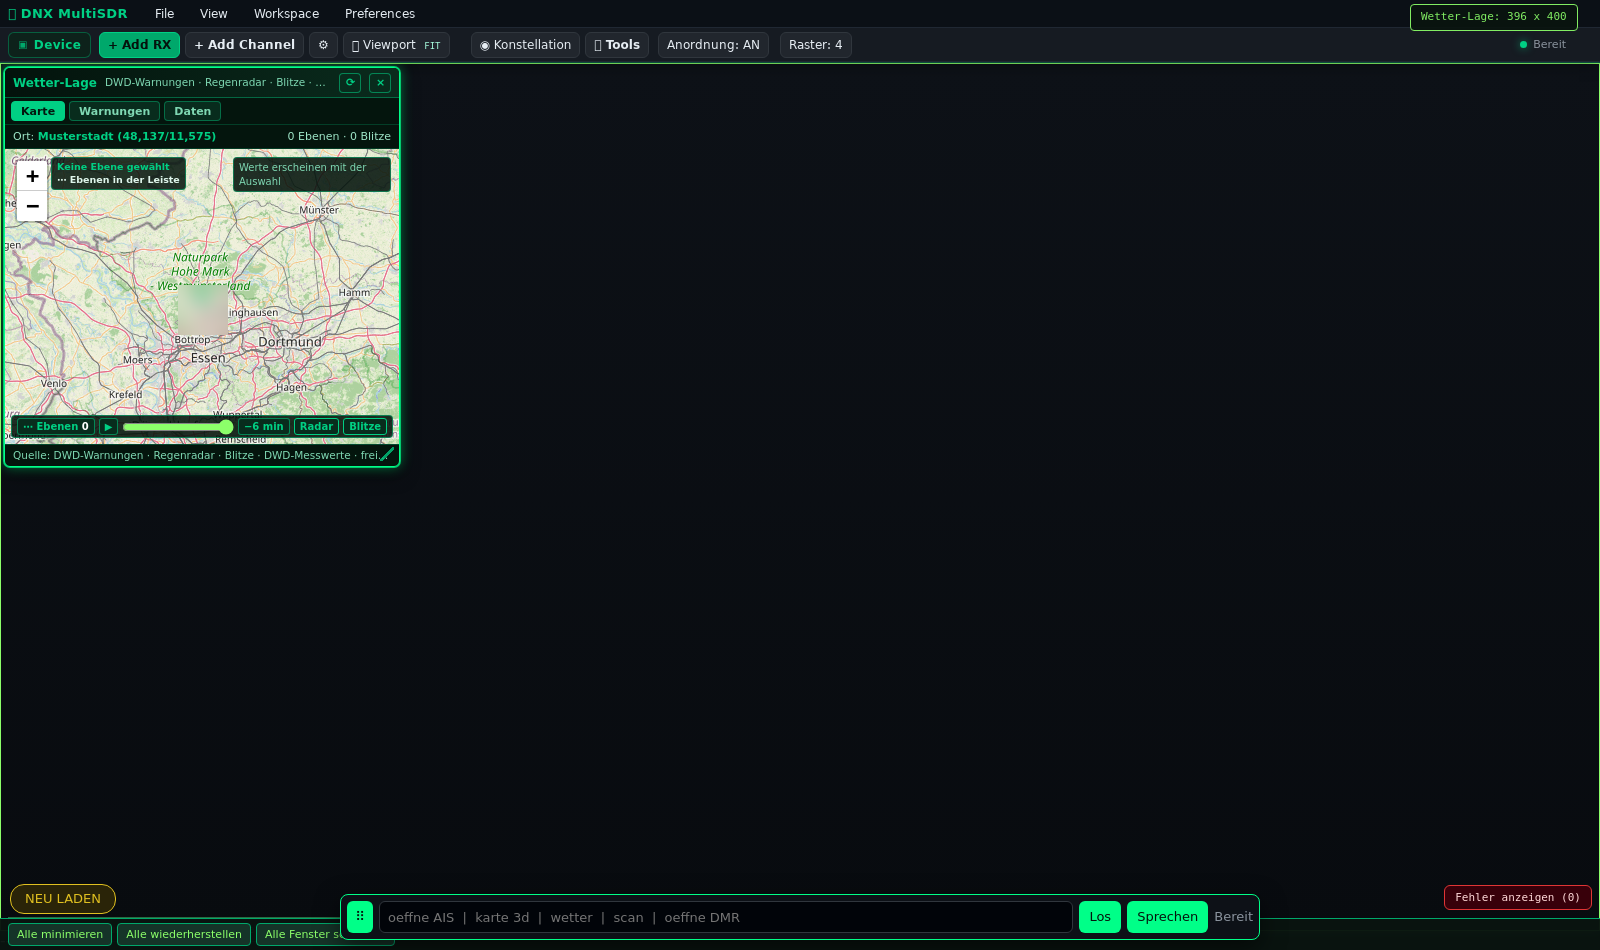
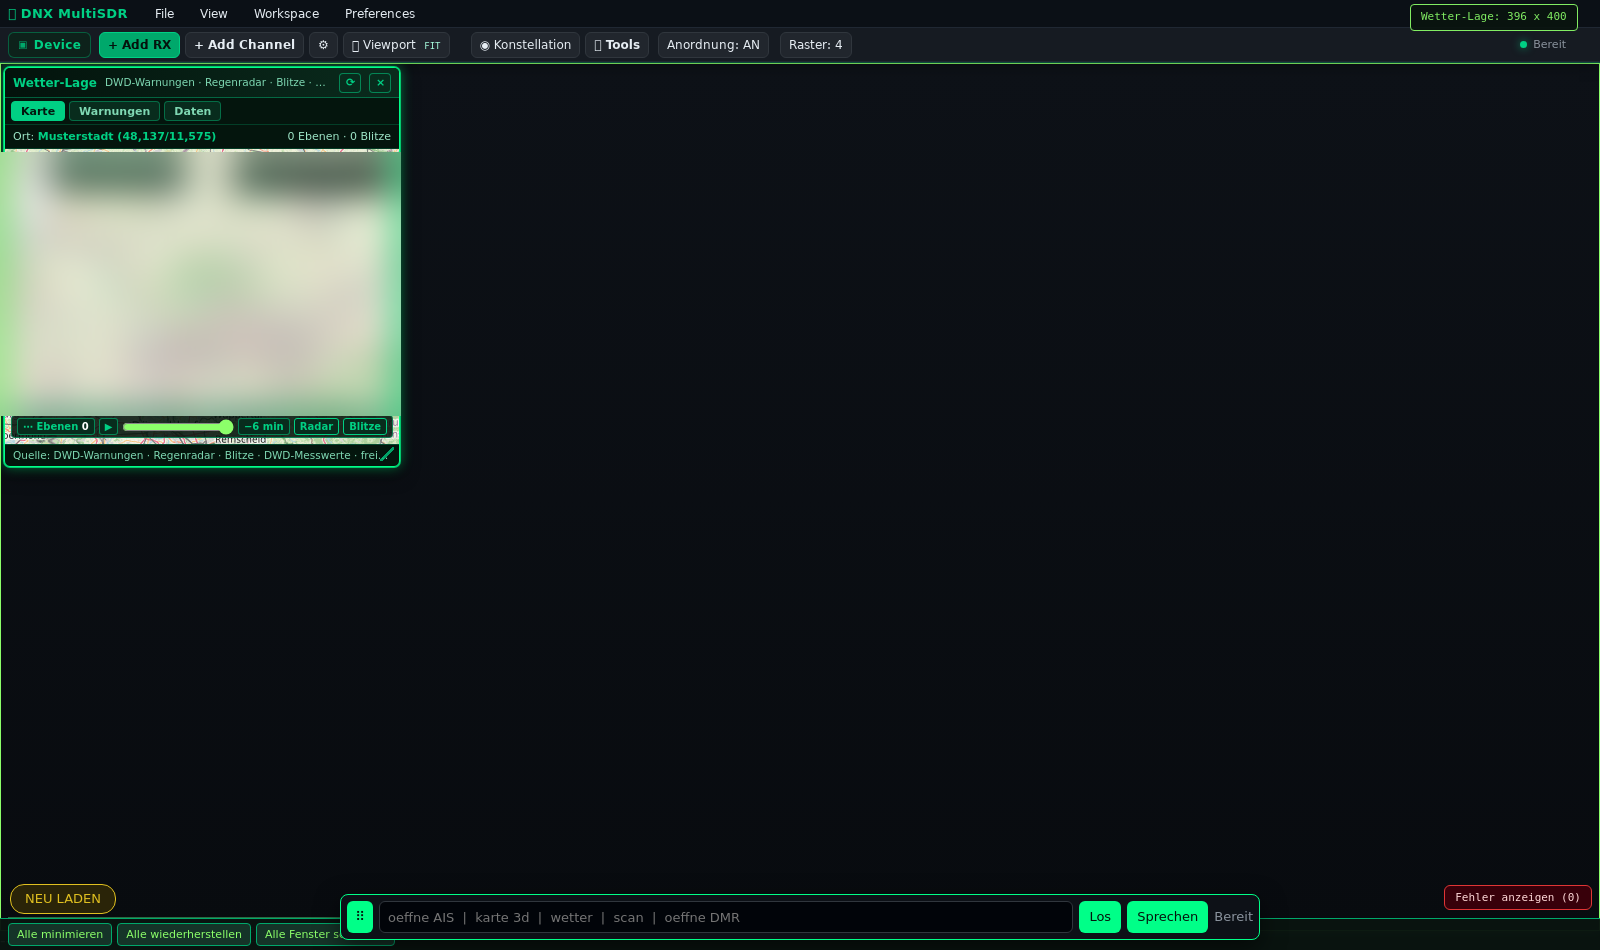
docs: Bedienelemente im Detail (Titelleiste, ≡-Menü, Raster, Device Einstellungen, START) + 24 neue Screens
- neu: docs/bedienung.md — Titelleiste/≡-Fenstermenü, Raster 2–6 mit Beispielen,
  Anordnung AN/AUS, Befehlsleiste (oeffne AIS + Los), Decoder-START (wie/wann/wo),
  Preferences-Menü im Detail, Device Einstellungen (Dec/Fp/RF Gain/Sampling/
  Bias-Tee/Samplerate/IF/Rauschsperre/Bandplan), ⚙ Device Defaults, EQ, Viewport FIT,
  Statuszeile (Alle minimieren / wiederherstellen / schließen) — beobachtetes
  Beta-Verhalten dokumentiert (Minimieren ohne Kacheln, Geräte-Standardwerte wirkungslos)
- Screens 57–80 (anonymisiert, DSP Test Source; Karten geblurrt)
- Wetter-Lage/Karte 2D: Kartenausschnitte geblurrt (Standort)
- menues.md/readme/decoder.md/erste-schritte.md: Querverweise + Korrekturen
  (Device Defaults, FFT Einstellungen)

Changed region(s): [[0.0, 0.1526, 0.25, 0.4579]]

diff --git a/docs/bedienung.md b/docs/bedienung.md
@@ -1,0 +1,320 @@
+# Bedienelemente im Detail — Fenster, Leisten, Dialoge
+
+![Arbeitsbereich mit Raster](screens/62-raster-4.png)
+
+Diese Seite beschreibt die **Bedienelemente abseits der Menüs**: Fenster-Titelleisten,
+das `≡`-Fenstermenü, das Preferences-Menü im Detail, die Geräte-Einstellungen, die
+untere Statuszeile, die Befehlsleiste mit `Los` — und wo genau ein Decoder-RX
+**gestartet** wird. Alle Screenshots zeigen den hardwarefreien **DSP Test Source**-RX
+(synthetisches Signal), Kartenausschnitte sind unscharf gehalten. Kein Knopf wurde
+gedrückt, der einen Live-Empfang oder Dekodierstart auslöst (Details:
+[disclaimer.md](disclaimer.md)).
+
+---
+
+## 1. Titelleiste jedes Fensters
+
+Jedes Fenster (RX, FFT, Decoder, Karten …) trägt oben rechts denselben Satz Knöpfe:
+
+| Element | Funktion |
+|---|---|
+| `⠿` (links im Kopf) | **Ziehen** — Fenster verschieben (bei `Anordnung: AN` später wieder einsortiert) |
+| Grüne Nummer-Plakette (`4`) | RX-Nummer des Fensters (`rx-004` steht rechts daneben) |
+| `LUPE AUS` | Decoder-Kanalmonitor (Lupe) an-/ausschalten |
+| `–` (Minimieren) | Fenster einklappen/minimieren |
+| `□` (Maximieren/Wiederherstellen) | Fenster auf volle Größe / zurück |
+| `≡` (Menü) | **Fenstermenü** (Details: §3) |
+| `✕` (Schließen) | Fenster schließen (nur die Ansicht, der RX bleibt registriert) |
+
+---
+
+## 2. Raster 2–6 und Anordnung AN/AUS
+
+Zwei Toolbar-Schalter steuern, **wo** Fenster landen:
+
+- **`Raster: n`** — Klick zyklisch `4 → 5 → 6 → 2 → 3 → …` (Wrap-Around). Die Zahl gibt
+  die Spaltenzahl des automatischen Fensterrasters an; Fenster sind standardmäßig
+  `396 × 400 px` — `Raster: 2`/`3` macht die Fenster breiter, `5`/`6` schmaler.
+- **`Anordnung: AN`** — der Layout-Packer ordnet Fenster automatisch (und bei jedem
+  neuen Fenster) neu im Raster an.
+- **`Anordnung: AUS`** — der Packer hält sich zurück; Fenster sind frei verschiebbar
+  (`AUS = frei ziehen + Resize`, laut Tooltip). Praktisch: Fenster einmal sinnvoll
+  anordnen und so lassen.
+
+### Raster-Beispiele (jeweils 7 Fenster: RX + FFT + CW-Decoder)
+
+| Raster | Screenshot |
+|---|---|
+| `Raster: 4` | ![Raster 4](screens/62-raster-4.png) |
+| `Raster: 2` | ![Raster 2](screens/63-raster-2.png) |
+| `Raster: 3` | ![Raster 3](screens/64-raster-3.png) |
+| `Raster: 5` | ![Raster 5](screens/65-raster-5.png) |
+| `Raster: 6` | ![Raster 6](screens/66-raster-6.png) |
+
+### Anordnung AUS — Beispiel
+
+![Anordnung AUS](screens/67-anordnung-aus.png)
+
+*Toolbar zeigt `Anordnung: AUS` (grün); der Packer greift nicht mehr ein — Fenster
+behalten ihre freie Position, bis du sie selbst bewegst.*
+
+**`🖥 Viewport FIT`** passt die Ansicht passend zum Fenster-Inhalt an
+(![Viewport FIT](screens/76-viewport-fit.png)). **`⟲ Reset`** setzt die RX-Parameter
+(Gain, AGC, Empfangspegel) auf Standard zurück. `⚙ Device Defaults` öffnet **nicht**
+die Vorgaben, sondern den Auswahldialog *Receiver hinzufügen* (siehe §5/§6) —
+beobachtetes Verhalten der Beta.
+
+---
+
+## 3. Das `≡`-Menü in der Titelleiste
+
+Der `≡`-Knopf in **jedem** Fensterkopf öffnet ein Kontextmenü mit denselben
+Basis-Einträgen (hier am **FFT-Fenster**):
+
+![≡ Menü – FFT-Fenster](screens/73-fenster-menue-fft.png)
+
+**Basis-Einträge (alle Fenster):**
+
+- **Fenstereigenschaften** (Überschrift)
+- `Klangregler 10 Band` — öffnet denselben 10-Band-Equalizer wie Preferences →
+  *Audio-Equalizer aktiver RX* (siehe §4/§8)
+- `Zusammenrollen / aufrollen` — Inhalt ein-/ausklappen
+- `Minimieren` / `Wiederherstellen` — wie die `–`/`□`-Knöpfe
+- `Vollbild / zurück` — Fenster maximieren/zurück
+- `Mittig setzen` — Fenster zentrieren
+- `Größe zurücksetzen 380×400`
+- **Alle Fenster** — `Alle minimieren` / `Alle wiederherstellen` / `Alle Fenster schließen`
+- **Andocken** — `Links` / `Rechts` / `Oben` / `Unten`
+- **Deckkraft** — `100 %` / `75 %` / `50 %` / `Schließen`
+
+Das **RX-Fenster** hat zwei zusätzliche Einträge ganz oben:
+
+![≡ Menü – RX-Fenster](screens/74-fenster-menue-rx.png)
+
+- **`FFT / Spektrum / Wasserfall – RX <n>`** — schaltet das FFT-Fenster dieses RX ein/aus
+- **`Geräte-Einstellungen – RX <n>`** — öffnet die **Device Einstellungen** dieses RX
+  (siehe §5) — das ist der eigentliche Einstellungs-Dialog pro Empfänger
+
+---
+
+## 4. Preferences-Menü im Detail
+
+![Preferences-Menü](screens/57-preferences-menue.png)
+
+| Eintrag | Was passiert (beobachtet, Beta v0.9.0) |
+|---|---|
+| `FFT Einstellungen` | **öffnet/aktualisiert das FFT-Fenster** des aktiven RX — **kein** Einstellungs-Dialog (die FFT-Parameter sitzen im FFT-Fenster selbst, siehe §9). Ohne aktiven RX passiert nichts. |
+| `Geräte-Standardwerte` | Keine sichtbare Wirkung in dieser Beta |
+| `Anzeige-Standardwerte für neue RX` | Keine sichtbare Wirkung in dieser Beta (rote Menüfarbe signalisiert: gefährlich/experimentell) |
+| `Audio-Equalizer aktiver RX` | Öffnet den 10-Band-Equalizer des aktiven RX (siehe §8) |
+| `Über DNX MultiSDR` | Versions-/Komponentenliste |
+
+Der Fuß-Hinweis im Menü: *„DNX-Menü: keine Workspace-Panels unten, alles als kompakte
+Top-Menüs.“*
+
+### FFT-Fenster über `Preferences → FFT Einstellungen` geöffnet
+
+![Preferences öffnet FFT](screens/58-fft-einstellungen.png)
+
+---
+
+## 5. Geräte-Einstellungen (Device Einstellungen) im Detail
+
+**Zugang:** RX-Fenster anklicken → `≡` in der Titelleiste → **`Geräte-Einstellungen – RX <n>`**.
+
+Das Fenster `RX <n> / Device Einstellungen` enthält die hardwarenahe Konfiguration
+**pro RX** (kleine Fensteransicht und maximiert):
+
+![Device Einstellungen (klein)](screens/77-geraete-einstellungen-rx.png)
+![Device Einstellungen (maximiert)](screens/78-geraete-einstellungen-fenster.png)
+
+![Geräte-Einstellungen Mitte](screens/80-geraete-einstellungen-mitte.png)
+![Geräte-Einstellungen unterer Teil](screens/79-geraete-einstellungen-unterer-teil.png)
+
+**Inhalt (von oben nach unten):**
+
+| Abschnitt | Elemente |
+|---|---|
+| **Gerät / Basis** | `Dec` — Decimation Factor `1 / 2 / 4 / 8 / 16 / 32 / 64` (effektiv z. B. `2048 kS/s`); `Fp` — `Cen – Center Frequency` / `Sub – Relative Position` / `Inf – Relative Position of Device Center Frequency` |
+| **RTL-SDR Hardware / Gain · AGC · Tuner** | `RF Gain` (Slider, hier `32,0 dB`); `RTL AGC` (digitale Automatik, kein Wert); `Tuner AGC`; `Offset Tuning` |
+| **Sampling Mode** | `Quadrature sampling`, `Direct sampling (I branch)`, `Direct sampling (Q branch)` |
+| **Bias-Tee 4,5 V** | Schalter für die Bias-Spannung am Tuner-Ausgang |
+| **RF Bandwidth kHz** | `0` = Tuner automatisch |
+| **IQ-Korrektur / Software** | `Auto DC`, `Auto IQ` (beides hier aktiv) |
+| **MW / FM (Direct Sampling Q)** | Direkt-Sampling-Profil für Mittelwelle/UKW |
+| **DAB (Profil)** | DAB+-Profil-Schalter |
+| **LO ppm** | Korrektur der Quarz-Abweichung |
+| **Samplerate** | RTL-SDR-Geräte-IQ-Rate; gültige Bereiche `225,001–300` und `900,001–3200 kS/s` (hier `2,048 MS/s`) |
+| **IF Frequency** | `0 kHz` / `450 kHz` / `1620 kHz` / `2048 kHz` |
+| **Rauschsperre – RX <n>** | *Initial squelch level (dBFS)* (`nicht festgelegt`, `Initialwert entfernen` — beim nächsten RX-Start mit `AUTO AUS` gültig); *AUTO-Abstand zum Rauschen (dB)* — größerer Abstand, AUTO öffnet erst bei stärkerem Signal (bisheriger Standard: `6 dB`) |
+| **Bandplan** | `BANDPLAN AN` + `ITU-Region` — `Region 1` (Europa/Afrika/Naher Osten), `Region 2` (Amerika), `Region 3` (Südasien/Pazifik) |
+
+Die Einstellungen werden **pro RX** lokal gespeichert (interner Schlüssel
+`dnx-devset-rx-<rx>`); FFT-/Spektrum-Parameter sind **nicht** hier, sondern im
+FFT-Fenster.
+
+### `⚙ Device Defaults` (Toolbar) — was es in dieser Beta wirklich tut
+
+![⚙ Device Defaults](screens/61-device-defaults.png)
+
+Der Toolbar-Knopf **`⚙ Device Defaults`** (Titel: *Device-/Anzeige-Defaults für neue
+RX*) öffnet in dieser Beta den Dialog **„Receiver hinzufügen“** — dieselbe Liste wie
+`+ Add RX` (vorhandene RX als „Fenster offen“ markiert, SDR-Geräte als „neu ·
+RX-Nummer wird beim Hinzufügen vergeben · bereit“, dazu `Remote: IP:Port` und `Scan`).
+Echte *Vorgaben* für neue RX (Gain/AGC/Samplerate) erreichst du über
+`≡ → Geräte-Einstellungen – RX <n>`.
+
+Der grüne **`Device`**-Knopf links daneben (Titel *Add RX Device Einstellungen*) ist
+als obsolet markiert und hier nur zur Vollständigkeit dokumentiert.
+
+---
+
+## 6. Add RX im Detail — und wo der EQ steckt
+
+`+ Add RX` öffnet **Receiver hinzufügen**:
+
+![Receiver hinzufügen](screens/60-add-rx-dialog.png)
+
+- **Scan** — angeschlossene SDR-Geräte neu suchen
+- **Liste** — `DSP Test Source` (synthetisch, hardwarefrei), `RTL-SDR Blog V3 (USB)`,
+  `Airspy R2` (*neu*), `Remote: IP:Port`; unter jedem Eintrag steht `RX <n> · Fenster
+  offen/geschlossen` bzw. „RX-Nummer wird beim Hinzufügen vergeben · bereit“
+- Rechts oben die **nächste freie Nummer** (`3 · rx-003`) wie im Kopf des RX-Fensters
+- `Hinzufügen` übernimmt die Auswahl und öffnet das RX-Fenster; `Abbrechen` schließt
+  den Dialog
+
+**Der Equalizer ist nicht Teil dieses Dialogs.** Du erreichst ihn nach dem Hinzufügen auf drei Wegen (alle identisch):
+
+1. Preferences → `Audio-Equalizer aktiver RX`
+2. `≡` in der Titelleiste des RX-Fensters → `Klangregler 10 Band`
+3. Der `🎶`-Knopf direkt in der Titelleiste des RX-Fensters
+
+![Audio-Equalizer](screens/59-audio-equalizer.png)
+
+Das EQ-Fenster (`<n> – LED EQ 10 Band`) zeigt: zehn Bänder `31 Hz … 16 kHz` mit
+Segment-Anzeige, **`EQ AN`**, **`Preamp`** (-12 … +12 dB, `Ziehen = Pegel · Doppelklick =
+Band auf 0`), Presets **`FLACH`**, **`BASS`**, **`MUSIK`**, **`SPRACHE`**, `RESET`,
+LIVE-Latenz (`LIVE 17,0 ms ▼ Regler`) und den Hinweis, dass die Kette beim nächsten
+Audio-Start aktiv wird. „Einstellungen gespeichert“ bestätigt Änderungen.
+
+---
+
+## 7. Die Befehlsleiste — `oeffne AIS` & Co., dann `Los`
+
+![Befehlsleiste mit oeffne AIS](screens/68-befehlsleiste-oeffne-ais.png)
+
+Die Leiste unten mittig ist eine Kommandozeile; der Platzhalter zeigt die Syntax:
+`oeffne AIS | karte 3d | wetter | scan | oeffne DMR`.
+
+| Element | Bedeutung |
+|---|---|
+| Textfeld | Befehl eintippen, z. B. `oeffne AIS` |
+| `Los` | führt den eingetippten Befehl aus |
+| `Sprechen` | Spracheingabe (Speech-to-Text → Befehl) |
+| `Bereit` | Voice-Standby-Status des Assistenten |
+
+**Beispiel-Flow:** `oeffne AIS` eintippen → **`Los` klicken** → 2 neue Fenster:
+
+![Nach Los: AIS-Karte & AIS-Bild](screens/69-los-ais.png)
+
+- **AIS-Karte** — Steuerung + Karte (Frequenzen 161,975 / 162,025 MHz, `AIS 1/2/Beide`,
+  Dual gleichzeitig, Testschiffe, CSV-Export …). *Die Kartenansicht ist in diesem
+  Screenshot unscharf — Kartenkacheln (OpenStreetMap) können Standort-Information
+  preisgeben.*
+- **AIS-Bild** — Wasserfall (`FT8 Original`, 8 Zeilen/s)
+
+Analoges Beispiel `oeffne CW` (siehe [decoder.md](decoder.md) — jedes Dekoder-Fenster
+mit Screenshot).
+
+> **Hinweis:** Befehle **öffnen nur Fenster** — sie starten weder Empfang noch Dekodierung.
+> Der eigentliche Start läuft im jeweiligen Dekoder-Fenster über **START** (§8).
+
+---
+
+## 8. Decoder-RX **starten** — wie, wann, wo
+
+**Wo:** Im jeweiligen **Dekoder-Fenster**, oben links — nicht in der Toolbar.
+
+![CW-Decoder START (Ausschnitt)](screens/75-cw-start-zoom.png)
+
+**Wie:** Jeder Decoder hat `▶ START` (grün) und `■ STOP` (rot) in der Kopfzeile:
+
+1. **Frequenz wählen** — z. B. im CW-Decoder eine Zeile der Frequenzliste anklicken
+   oder abstimmen (der On-Screen-Hinweis im Fenster lautet: *„Frequenz wählen oder auf
+   einen CW-Sender abstimmen, dann START: schaltet PLAY von RX <n> ein und startet den
+   CW-Decoder“* — wörtlich aus dem UI)
+2. **Betriebsart/Bandbreite/Parameter** setzen (Mode `CW`, Bandbreite, Decoder-Toggles …)
+3. **`START` drücken** — schaltet `PLAY` des zugehörigen RX ein und startet den
+   Decoder; `STOP` hält an
+
+Dasselbe Muster bei AIS (Bild oben: `START`/`STOP` neben `AIS 1/2/Beide`), DMR, APRS,
+CW, DAB, TETRA, … — siehe [decoder.md](decoder.md) mit allen Fenstern.
+
+**Wann:** Erst, wenn du tatsächlich dekodieren/abhören willst. Fenster öffnen, Befehle
+eintippen und `Los` klicken starten **keinen** Empfang; es ist kein Live-Start nötig
+und in dieser Doku auch keiner ausgeführt. Ohne gesetzte Frequenz ist START wirkungslos
+bzw. zeigt den Hinweis. `Decoder-RX starten` = START drücken **nach** Frequenzwahl —
+„die Frequency zuerst, dann START“ ist die Reihenfolge.
+
+**STOP** beendet nur den Decoder; der RX bleibt registriert (Fenster schließen ≠
+Empfänger entfernen).
+
+---
+
+## 9. Das FFT-Fenster im Detail
+
+Über `Preferences → FFT Einstellungen`, den Toolbar-Knopf **`FFT`** oder
+`≡ → FFT / Spektrum / Wasserfall – RX <n>`:
+
+![FFT-Fenster](screens/58-fft-einstellungen.png)
+
+Vier Reiter: **`Spektrum`** · **`Wasserfall`** · **`FFT`** · **`Skala`**.
+Im `Spektrum`-Reiter unter *Darstellungsmodus*:
+
+- `Modus` — z. B. `Linie`
+- `Spektrum-Palette` — z. B. `2511` (Farbverlauf); „Farbschalter AUS = Spektrum-Palette,
+  AN = die daneben gewählte feste Farbe“
+- `Wasserfall-Stil` — z. B. `Farbe`
+- `Spektrum-Tempo` — hier `60 FPS`
+- `Linienfarbe` `#8CFF6A`, `Füllfarbe oben` `#39E97C`, `Füllfarbe unten` `#063D25`
+  (mit je einem `AUS`-Schalter zum Abschalten fester Farben)
+- `Füll-Deckkraft` `48 %`, `Linien-Deckkraft` `1,00`
+- Buttons `Max Hold löschen` · `Persistenz löschen` · `Spektrum zurücksetzen`
+- **`LUPE AUS`** in der Fensterleiste — Decoder-Kanalmonitor (Lupe) an/aus
+
+---
+
+## 10. Untere Statuszeile (links) — `Alle minimieren` · `Alle wiederherstellen` · `Alle Fenster schließen`
+
+| Element | Funktion (beobachtet) |
+|---|---|
+| `NEU LADEN` (gold) | Harter Reload der kompletten Anwendung |
+| `Alle minimieren` | Alle Fenster verschwinden. **Beta-Auffälligkeit:** Die minimierten Fenster tauchen als Kacheln aktuell **nicht** wieder auf (Container `.dnx-task-chips` bleibt leer / 0 px hoch), der Leer-Zustand zeigt den Toast `keine Fenster` oben rechts |
+| `Alle wiederherstellen` | Alle zuvor **minimierten** Fenster kommen wieder — Raster-Anordnung greift wieder (nach `Alle Fenster schließen` gibt es nichts zurückzuholen) |
+| `Alle Fenster schließen` | Leerer Workspace (`Bereit`, keine Fenster). In den Tests blieb ein per Preferences geöffnetes FFT-Fenster im DOM (sichtbar: nichts) |
+| `Fehler anzeigen (0)` (rot, rechts unten) | Öffnet den Fehler-Log-Zähler |
+
+Vorher / nachher:
+
+![Alle minimieren](screens/70-alle-minimieren.png)
+![Alle wiederherstellen](screens/71-alle-wiederherstellen.png)
+![Alle Fenster schließen](screens/72-alle-fenster-schliessen.png)
+
+---
+
+## Beobachtete Beta-Eigenheiten (v0.9.0)
+
+- `Preferences → Geräte-Standardwerte` und `Anzeige-Standardwerte für neue RX` zeigen
+  **keine sichtbare Wirkung** (Menü schließt sich, nichts öffnet sich).
+- `Preferences → FFT Einstellungen` ist ein **Öffner für das FFT-Fenster**, kein
+  Einstellungs-Dialog; die FFT-Einstellungen stehen im FFT-Fenster selbst.
+- `⚙ Device Defaults` öffnet den Dialog *Receiver hinzufügen* (Auswahl), nicht die Vorgaben.
+- `Alle minimieren` erzeugt keine sichtbaren Kacheln (§10).
+- Solange `Anordnung: AN` ist, zieht der Packer Fenster automatisch wieder ins Raster —
+  für freie Positionierung erst `Anordnung: AUS` schalten.
+
+---
+
+*Nur Dokumentation und Screenshots — MIT-lizenziert (Doku). Die Anwendung selbst ist
+nicht Teil dieser Veröffentlichung. DNX MultiSDR ist ein Hobbyprojekt ohne Support;
+Nutzung auf eigene Gefahr — siehe [disclaimer.md](disclaimer.md).*

diff --git a/docs/menues.md b/docs/menues.md
@@ -1,5 +1,7 @@
 # Menüs im Überblick
 
+> Detailbeschreibungen aller Bedienelemente (Fenster-Titelleiste, ≡-Menü, Geräte-Einstellungen, Befehlsleiste, Statuszeile): **[bedienung.md](bedienung.md)**
+
 ## File (`File`)
 
 ![File-Menü](screens/27-menu-file.png)
@@ -35,11 +37,16 @@ kompakte Top-Menüs.“*
 
 ![Preferences-Menü](screens/30-menu-preferences.png)
 
-- `FFT Einstellungen` — FFT/Spektrum-Parameter des aktiven RX
-- `Geräte-Standardwerte` — Vorgaben pro Gerät (Gain, AGC, Schwellwerte …)
-- `Anzeige-Standardwerte für neue RX` — neue Fenster erhalten diese Defaults
-- `Audio-Equalizer aktiver RX` — Klang-EQ pro RX-Kanal
+- `FFT Einstellungen` — öffnet/aktualisiert in dieser Beta das **FFT-Fenster** des
+  aktiven RX (kein Einstellungs-Dialog; die FFT-Parameter stehen im Fenster selbst)
+- `Geräte-Standardwerte` — in dieser Beta **ohne sichtbare Wirkung** (beobachtet)
+- `Anzeige-Standardwerte für neue RX` — in dieser Beta **ohne sichtbare Wirkung** (beobachtet)
+- `Audio-Equalizer aktiver RX` — 10-Band-LED-Equalizer des aktiven RX (Preamp, FLACH/BASS/MUSIK/SPRACHE/RESET)
 - `Über DNX MultiSDR` — Version/Komponentenliste
+
+Die pro-RX-Gerätekonfiguration (RF Gain, AGC, Samplerate, IF, Squelch, Bandplan …)
+erreichst du über **`≡` in der Titelleiste des RX-Fensters → `Geräte-Einstellungen – RX <n>`**
+— siehe [bedienung.md](bedienung.md) §5.
 
 ## Toolbar-Presets & Raster
 
@@ -64,5 +71,6 @@ Spektrum-Palette `2511`, Wasserfall-Stil `Farbe`, `Spektrum-Tempo` 60 FPS,
 `Persistenz löschen`, `Spektrum zurücksetzen`.*
 
 `Viewport FIT` zeichnet Inhalt passend zur Fenstergröße, `Reset` stellt die
-RX-Parameter auf Standard zurück (Gain, AGC, Empfangspegel), `⚙ Device Defaults`
-ruft die gespeicherten Geräte-Vorgaben auf.
+RX-Parameter auf Standard zurück (Gain, AGC, Empfangspegel). **`⚙ Device Defaults`**
+öffnet in dieser Beta den Dialog *„Receiver hinzufügen“* (Geräteauswahl) — die echten
+Vorgaben stecken in `≡ → Geräte-Einstellungen – RX <n>` (siehe [bedienung.md](bedienung.md) §5).

diff --git a/README.md b/README.md
@@ -45,6 +45,7 @@ mit leistungsfähigen Empfangs-, Dekodier-, Kartierungs- und Wettermodulen:
 | [docs/wetter.md](docs/wetter.md) | Wetterzentrale: Radar, Blitzdaten, Warnungen, Einstellungen, HF-Fax |
 | [docs/tools.md](docs/tools.md) | **Tools-Menü im Detail**: Welt-DB, Frequenz-Scanner, Frequenz-Manager, Multidecoder, Universal-Decoder, Band-Browser |
 | [docs/menues.md](docs/menues.md) | File / View / Workspace / Preferences im Überblick |
+| [docs/bedienung.md](docs/bedienung.md) | **Bedienelemente im Detail**: Fenster-Titelleiste + ≡-Menü, Raster 2–6, Anordnung AN/AUS, Befehlsleiste + `Los`, Decoder-START (wie/wann/wo), Device Einstellungen, EQ, Statuszeile |
 | [docs/installation.md](docs/installation.md) | Betrieb mit Docker und ohne Docker, Zusatz-Container und warum |
 | [docs/architektur.md](docs/architektur.md) | Warum nicht alles in JavaScript gebaut ist |
 | [docs/faq.md](docs/faq.md) | Häufige Fragen (eigene API-Schlüssel, Datenquellen, Offline-Betrieb …) |

diff --git a/docs/decoder.md b/docs/decoder.md
@@ -14,7 +14,9 @@ oeffne NXDN | oeffne ILS | oeffne VOR
 Der volle Absichtstext steht als Platzhalter in der Leiste (`oeffne AIS | karte 3d |
 wetter | scan | oeffne DMR`). Tippen, `los` klicken — die Fenster öffnen sich an das
 Raster angebunden (Standard 396 × 400 px). Enthält die Eingabe keine bekannte
-Dekoder-Anweisung, passiert einfach nichts.
+Dekoder-Anweisung, passiert einfach nichts. **Empfang/Dekodierung starten tut nur der
+`START`-Knopf im jeweiligen Dekoder-Fenster** (wie/wann/wo erklärt):
+[bedienung.md](bedienung.md) §8.
 
 > **Hinweis:** Die Befehle `karte 3d`, `wetter` und `scan` öffnen in dieser Beta
 > nur ein generisches Wasserfall-Fenster des aktiven RX. Die echten Werkzeuge

diff --git a/docs/erste-schritte.md b/docs/erste-schritte.md
@@ -99,3 +99,5 @@ Nach dem Hinzufügen (oder Öffnen) eines RX erscheint ein Fenster im 396 × 400
 - `Anordnung: AN` legt Fenster automatisch ins **Raster** (Spalten `Raster: n`).
 - Über **Workspace**-Menü oder `View` lassen sich alle Fenster gleichzeitig minimieren/wiederherstellen/schließen und Layouts kaskadieren oder kacheln.
 - Arbeitsbereiche 1–4 trennen Fenstergruppen (z. B. SAT / Wetter / Scan / HF-Fax).
+
+→ Alle Bedienelemente im Detail (Titelleiste, ≡-Menü, Raster 2–6, Statuszeile, Befehlsleiste + `Los`): **[bedienung.md](bedienung.md)**
